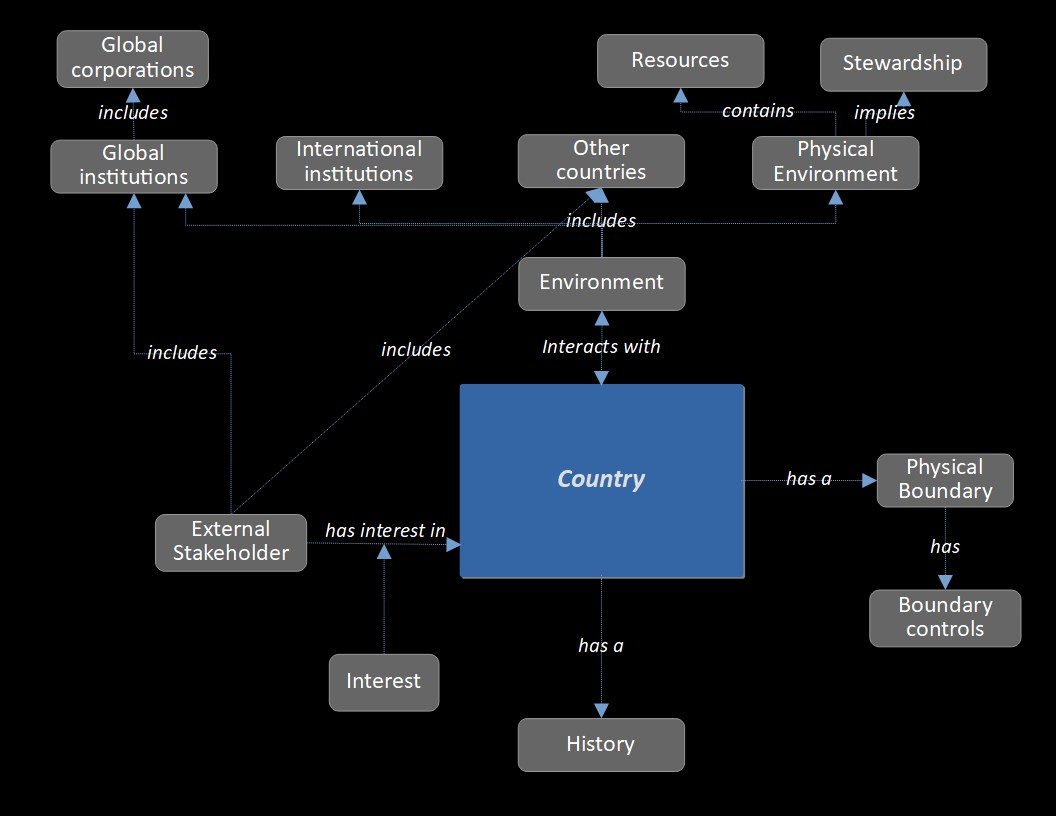
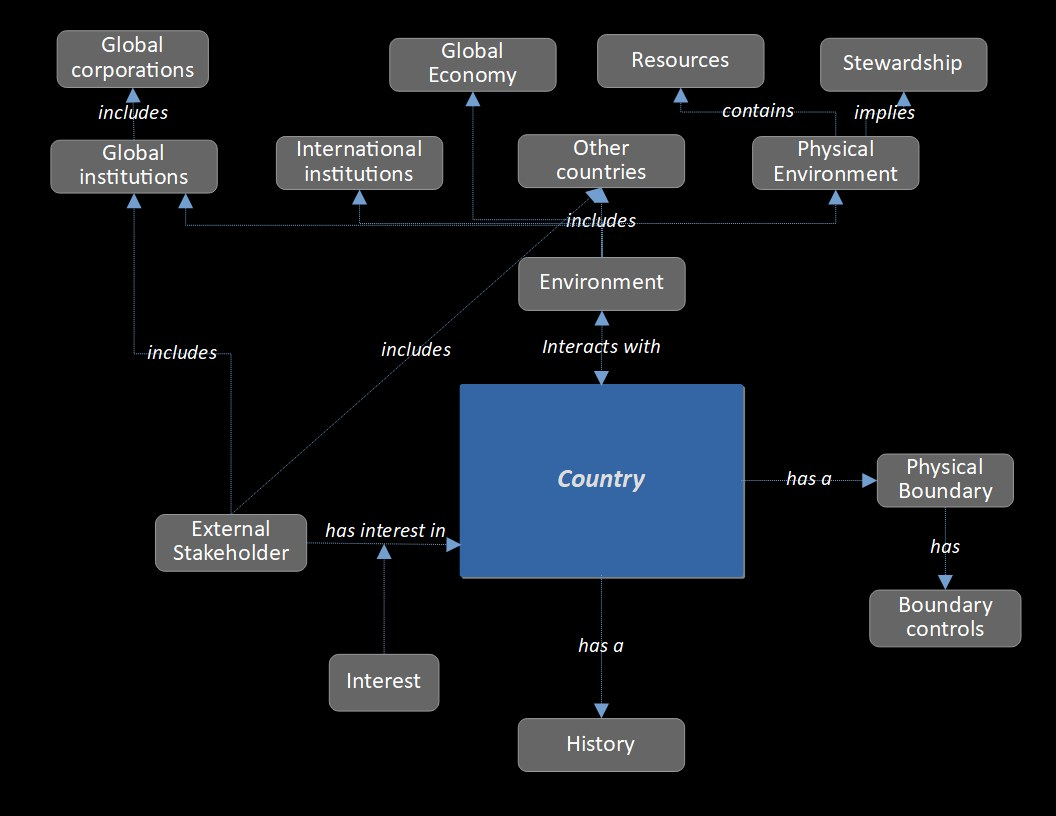
Trying to fix google analytics

Changed region(s): [[0.3438, 0.0306, 0.5312, 0.1532]]

diff --git a/_layouts/default.html b/_layouts/default.html
@@ -10,6 +10,8 @@
          function gtag(){dataLayer.push(arguments);}
          gtag('js', new Date());
          gtag('config', 'UA-166624551-1');
+		     gtag('config', 'G-4NWYLKENEJ');
+
       </script>
       {% seo %}
 			<link rel="stylesheet" href="{{ '/assets/css/style.css?v=' | append: site.github.build_revision | relative_url }}">

diff --git a/workbook/countriesassystems.md b/workbook/countriesassystems.md
@@ -6,7 +6,7 @@ Countries are systems.  In some cases they were created fairly recently and extr
 
 Here is a first attempt to create a Key External Relationships Diagram for a country, by taking the key external relationships for a generic social system from the introduction to [Social Systems Thinking](socialsystemsthinking), and making it more specific.
 
-<img src="/assets/images/Generic Country System Context.jpg" alt="Generic Country System Context diagram - details in text" class=diagram />
+<img src="/assets/images/Generic Country System Context.jpg" alt="External relationships for a generic country, described in detail in the text" title="External relationships for a generic country, described in detail in the text" class=diagram />
 
 Figure 1: System Context Diagram for a generic country.
 
@@ -26,11 +26,14 @@ The physical environment is the land, sea and air within the physical boundaries
 
 The physical boundary is enforced by physical controls such border guards and military, but also by many virtual controls such as taxation on the flow of capital, constraints on foreign ownership of vital industries and land. Some of this is managed by the government, but some flows are managed by global and international institutions. They are also managed by other countries because in many cases the border is shared with one or more other countries.
 
+The abstract environment includes other countries, the global economy and international institutions which themselves may be part of the global economy and may also be stakeholders.
+
 All of these represent significant two-way interactions which will affect the internal components of a country.
 
 The following internal structure diagram summarises the internal parts for a generic country.
 
-<img src="/assets/images/Country component diagram.jpg" alt="Country component diagram - details in text" class=diagram />
+
+<img src="/assets/images/Country component diagram.jpg" alt="Country component diagram - details in text" title="Internal structure of a generic country, described in detail in the text" class=diagram />
 
 Figure 2: Internal Structure Diagram for a Generic Country.
 

diff --git a/workbook/whatexpect.md b/workbook/whatexpect.md
@@ -57,8 +57,7 @@ I will only look at Eurocentric systems. Other nations and cultures have other s
 
 Since many of the systems monitor themselves, producing huge volumes of statistics and reports and, in the case of the media and other institutions, monitor other systems, we can use existing results as the initial Monitor step of our loop and begin with the analysis. This gives a logical entry point to start the loop.
 
-![Workshop overview, described in detail in the text](/assets/images/MADPE loop.jpg "Workshop overview, described in detail in the text")
-<img src="/assets/images/MADPE loop.jpg" alt="Workshop overview, described below" class=diagram />
+<img src="/assets/images/MADPE loop.jpg" alt="Workshop overview, described in detail in the text" title="Workshop overview, described in detail in the text" class=diagram />
 
 Figure 1: Workbook overview: MADPE loop
 

diff --git a/workbook/whatisdemocracy.md b/workbook/whatisdemocracy.md
@@ -2,4 +2,4 @@
 ## Defining Democracy
 ### What is Democracy
 
-Under construction
+Under construction - tests
